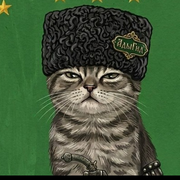
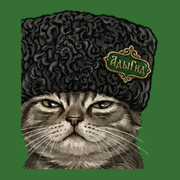
Знак сайта — кот в папахе, а не горы
Шапка, подвал, подбор, витрина и админка берут один и тот же кадр
из иллюстрации кота. Иконки вкладки собраны из этого кадра.
Слово «АдыГид» не менялось. Общая картинка ссылки уже была с котом.

diff --git a/site_app/static/podbor.js b/site_app/static/podbor.js
@@ -694,7 +694,7 @@
   }
   function stepChrome(pos, total, count) {
     const pct = Math.round(((pos + 1) / total) * 100);
-    return '<header class="a2-bar"><span class="a2-brand"><span class="a2-mark" aria-hidden="true">▲</span>АдыГид</span><span class="a2-count">' + esc(count || ((pos + 1) + " / " + total)) + '</span></header><div class="a2-prog" aria-hidden="true"><i style="width:' + pct + '%"></i></div>';
+    return '<header class="a2-bar"><span class="a2-brand"><img class="a2-mark" src="/assets/logo-cat.png" alt="" width="22" height="22">АдыГид</span><span class="a2-count">' + esc(count || ((pos + 1) + " / " + total)) + '</span></header><div class="a2-prog" aria-hidden="true"><i style="width:' + pct + '%"></i></div>';
   }
   function navHtml(atStart) {
     return '<nav class="a2-nav"><button type="button" class="a2-btn-ghost" data-act="back"' + (atStart ? " disabled" : "") + '>← Назад</button><button type="button" class="a2-skip" data-act="skip">Пропустить</button></nav>';
@@ -887,7 +887,7 @@
       ? '<div class="a2-params">' + QUESTIONS.map((q, i) => '<button type="button" class="a2-param" data-act="edit" data-i="' + i + '"><span class="a2-p-ic">' + tileIcon(q) + '</span><span class="a2-p-t"><small>' + esc((VISUAL[q.key] && VISUAL[q.key].tile) || q.copy) + "</small><b>" + esc(tileValue(q)) + '</b></span><span class="a2-p-ed" aria-hidden="true">✎</span></button>').join("") + "</div>"
       : "";
     const toggle = detailsOpen ? "Скрыть детали ▴" : "Изменить детали";
-    return '<section class="a2-fin"><div class="a2-hero"><img src="' + esc(pimg("hero")) + '" alt="" decoding="async" loading="lazy"><span class="a2-hero-shade"></span><header class="a2-bar a2-bar-light"><span class="a2-brand"><span class="a2-mark" aria-hidden="true">▲</span>АдыГид</span></header><div class="a2-fin-copy"><span class="a2-kick">Всё готово</span><h1>План по Адыгее<br>почти собран</h1><p>' + esc(flowSummary()) + '</p></div></div><div class="a2-sheet"><div class="a2-pv-head"><h2>Например, вас ждут:</h2><small>подберём ещё и разложим по дням</small></div><div class="a2-pv-row">' + cards + '</div><div class="a2-final-btns"><button type="button" class="a2-btn" data-act="confirm">Сформировать план →</button><button type="button" class="a2-btn-ghost' + (detailsOpen ? " is-on" : "") + '" data-act="details">' + toggle + "</button></div>" + tiles + "</div></section>";
+    return '<section class="a2-fin"><div class="a2-hero"><img src="' + esc(pimg("hero")) + '" alt="" decoding="async" loading="lazy"><span class="a2-hero-shade"></span><header class="a2-bar a2-bar-light"><span class="a2-brand"><img class="a2-mark" src="/assets/logo-cat.png" alt="" width="22" height="22">АдыГид</span></header><div class="a2-fin-copy"><span class="a2-kick">Всё готово</span><h1>План по Адыгее<br>почти собран</h1><p>' + esc(flowSummary()) + '</p></div></div><div class="a2-sheet"><div class="a2-pv-head"><h2>Например, вас ждут:</h2><small>подберём ещё и разложим по дням</small></div><div class="a2-pv-row">' + cards + '</div><div class="a2-final-btns"><button type="button" class="a2-btn" data-act="confirm">Сформировать план →</button><button type="button" class="a2-btn-ghost' + (detailsOpen ? " is-on" : "") + '" data-act="details">' + toggle + "</button></div>" + tiles + "</div></section>";
   }
   function wizard() {
     if (reviewOpen && !state.final) return renderPreview();

diff --git a/site_app/templates/base.html b/site_app/templates/base.html
@@ -12,11 +12,11 @@
 <link rel="canonical" href="{{ canonical_url }}">
 <meta name="robots" content="{% block robots %}index, follow{% endblock %}">
 
-<link rel="icon" href="/assets/favicon.ico" sizes="any">
-<link rel="icon" type="image/png" sizes="16x16" href="/assets/favicon-16x16.png">
-<link rel="icon" type="image/png" sizes="32x32" href="/assets/favicon-32x32.png">
-<link rel="icon" type="image/png" sizes="192x192" href="/assets/favicon-192x192.png">
-<link rel="apple-touch-icon" sizes="180x180" href="/assets/apple-touch-icon.png">
+<link rel="icon" href="/assets/favicon.ico?v={{ asset_version }}" sizes="any">
+<link rel="icon" type="image/png" sizes="16x16" href="/assets/favicon-16x16.png?v={{ asset_version }}">
+<link rel="icon" type="image/png" sizes="32x32" href="/assets/favicon-32x32.png?v={{ asset_version }}">
+<link rel="icon" type="image/png" sizes="192x192" href="/assets/favicon-192x192.png?v={{ asset_version }}">
+<link rel="apple-touch-icon" sizes="180x180" href="/assets/apple-touch-icon.png?v={{ asset_version }}">
 
 <meta property="og:type" content="{% block og_type %}website{% endblock %}">
 <meta property="og:site_name" content="АдыГид">
@@ -49,6 +49,15 @@
   "inLanguage": "ru-RU"
 } | tojson }}
 </script>
+<script type="application/ld+json">
+{{ {
+  "@context": "https://schema.org",
+  "@type": "Organization",
+  "name": "АдыГид",
+  "url": site_url,
+  "logo": site_url ~ "/assets/logo-cat.png"
+} | tojson }}
+</script>
 {% block extra_ld %}{% endblock %}
 
 {% if yandex_metrika_id %}
@@ -70,11 +79,7 @@
   <div class="wrap">
     <div class="capsule">
       <a class="brand" href="/" aria-label="АдыГид — на главную">
-        <svg class="brand-mark" width="26" height="26" viewBox="0 0 32 32" aria-hidden="true">
-          <polygon points="4,24 12,10 20,24" fill="#9BCBA4"/>
-          <polygon points="10,24 21,8 30,24" fill="#278C3E"/>
-          <circle cx="24" cy="9" r="2.6" fill="#D6A324"/>
-        </svg>
+        <img class="brand-mark" src="/assets/logo-cat.png?v={{ asset_version }}" alt="" width="32" height="32">
         <span class="brand-word">АдыГид</span>
       </a>
       <nav class="main-nav">
@@ -113,6 +118,10 @@
 
 <footer class="site-footer">
   <div class="wrap">
+    <a class="footer-brand brand" href="/" aria-label="АдыГид — на главную">
+      <img class="brand-mark" src="/assets/logo-cat.png?v={{ asset_version }}" alt="" width="28" height="28">
+      <span class="brand-word">АдыГид</span>
+    </a>
     <div class="footer-stats">
       На сайте собрано {{ places_label(footer_stats.places) }} и {{ routes_label(footer_stats.trails) }}
     </div>

diff --git a/site_app/static/site.css b/site_app/static/site.css
@@ -100,7 +100,7 @@ a:focus-visible, button:focus-visible, input:focus-visible, select:focus-visible
   box-shadow: 0 10px 30px -16px rgba(30, 110, 48, .35), 0 1px 2px rgba(20, 30, 15, .04);
 }
 .brand { display: flex; align-items: center; gap: 9px; text-decoration: none; flex: none; }
-.brand-mark { flex: none; }
+.brand-mark { flex: none; width: 32px; height: 32px; display: block; }
 .brand-word { font-family: var(--font-display); font-size: 18px; color: var(--text); white-space: nowrap; }
 nav.main-nav { display: flex; gap: 2px; flex: 1; justify-content: center; padding: 0 8px; }
 nav.main-nav a {
@@ -820,6 +820,8 @@ h1.article-title {
 /* ── Footer ────────────────────────────────────────*/
 .site-footer { border-top: 1px solid var(--border); margin-top: 60px; padding: 32px 0; }
 .site-footer .wrap { display: flex; justify-content: space-between; align-items: center; gap: 16px 28px; flex-wrap: wrap; }
+.footer-brand .brand-mark { width: 28px; height: 28px; }
+.footer-brand .brand-word { font-size: 16px; }
 .footer-stats { font-family: var(--font-mono); font-size: 13px; color: var(--text-muted); }
 .footer-stats b { color: var(--text); font-variant-numeric: tabular-nums; }
 /* Раньше был в верхнем меню — переехал сюда, когда шапка сжалась до пяти
@@ -859,6 +861,7 @@ h1.article-title {
   .wrap { padding: 0 16px; }
   .site-header { top: 10px; margin-bottom: 26px; }
   .capsule { padding: 6px 6px 6px 14px; gap: 4px; }
+  .brand-mark { width: 28px; height: 28px; }
   .brand-word { font-size: 16px; }
 }
 

diff --git a/static/admin.css b/static/admin.css
@@ -34,8 +34,10 @@ a { color: var(--accent); }
   background: var(--card); border-bottom: 1px solid var(--border);
   display: flex; align-items: center; gap: 24px; padding: 0 24px; height: 58px;
 }
-.brand { font-weight: 700; font-size: 16px; color: var(--accent); white-space: nowrap; }
-.brand span { display: block; font-size: 11px; color: var(--muted); font-weight: 400; }
+.brand { display: flex; align-items: center; gap: 8px; font-weight: 700; font-size: 16px; color: var(--accent); white-space: nowrap; }
+.brand img { width: 28px; height: 28px; display: block; flex: none; }
+.brand-name { line-height: 1.15; }
+.brand small { display: block; font-size: 11px; color: var(--muted); font-weight: 400; }
 .tabs { display: flex; gap: 4px; flex: 1; }
 .tab {
   padding: 8px 16px; border-radius: 8px; border: none; background: none;
@@ -665,7 +667,7 @@ a { color: var(--accent); }
   /* Шапка: вкладки уезжают в горизонтальный скролл вместо переполнения */
   .topbar { flex-wrap: wrap; height: auto; padding: 10px 14px; gap: 8px 14px; }
   .brand { font-size: 14px; }
-  .brand span { display: none; }
+  .brand small { display: none; }
   .tabs {
     order: 3; flex-basis: 100%; overflow-x: auto; -webkit-overflow-scrolling: touch;
     gap: 2px; padding-bottom: 2px; scrollbar-width: none;

diff --git a/site_app/static/vpechatleniya/v.css b/site_app/static/vpechatleniya/v.css
@@ -42,6 +42,7 @@ a:focus-visible, button:focus-visible, input:focus-visible { outline: 2px solid 
 .site-header { position: sticky; top: 0; z-index: 50; background: color-mix(in srgb, #fff 90%, transparent); backdrop-filter: blur(12px); border-bottom: 1px solid var(--border); }
 .header-row { display: flex; align-items: center; gap: 12px; padding: 12px 0; }
 .brand { display: flex; align-items: center; gap: 8px; border: 0; background: none; padding: 0; color: inherit; }
+.brand-mark { width: 32px; height: 32px; display: block; flex: none; }
 .brand-word { font-family: var(--font-display); font-size: 22px; }
 .v7-mark { font-size: 12px; font-weight: 700; color: var(--accent-dark); background: var(--accent-soft); border: 1px solid var(--border); border-radius: 999px; padding: 3px 9px; }
 

diff --git a/app/templates/bot_base.html b/app/templates/bot_base.html
@@ -12,7 +12,7 @@
 </head>
 <body>
 <header class="topbar">
-  <a class="brand" href="/admin">АдыГид<span>панель управления</span></a>
+  <a class="brand" href="/admin"><img src="/assets/logo-cat.png" alt="" width="28" height="28"><span class="brand-name">АдыГид<small>панель управления</small></span></a>
   <nav class="tabs">
     <a class="tab" href="/admin">Статьи и разделы</a>
     <a class="tab{% if section == 'inbox' %} active{% endif %}" href="/admin/inbox">Входящие</a>

diff --git a/static/admin.html b/static/admin.html
@@ -13,7 +13,7 @@
 <body>
 
 <header class="topbar">
-  <div class="brand">АдыГид<span>панель управления</span></div>
+  <div class="brand"><img src="/assets/logo-cat.png" alt="" width="28" height="28"><span class="brand-name">АдыГид<small>панель управления</small></span></div>
   <nav class="tabs">
     <button class="tab active" data-tab="articles">Статьи</button>
     <button class="tab" data-tab="routes">Маршруты</button>

diff --git a/site_app/static/vpechatleniya/v.js b/site_app/static/vpechatleniya/v.js
@@ -241,7 +241,7 @@
     );
   }
   function logo() {
-    return '<svg width="26" height="26" viewBox="0 0 32 32" aria-hidden="true"><polygon points="4,24 12,10 20,24" fill="#9BCBA4"/><polygon points="10,24 21,8 30,24" fill="#278C3E"/><circle cx="24" cy="9" r="2.6" fill="#D6A324"/></svg>';
+    return '<img class="brand-mark" src="/assets/logo-cat.png" alt="" width="32" height="32">';
   }
   var catalogY = 0, catalogFocusId = "", detailStack = [];
   function menuIcon(code) {

diff --git a/site_app/templates/scenario.html b/site_app/templates/scenario.html
@@ -19,7 +19,7 @@
   "dateModified": scenario.updated_iso,
   "inLanguage": "ru-RU",
   "author": {"@type": "Person", "name": "Данила"},
-  "publisher": {"@type": "Organization", "name": "АдыГид", "url": site_url}
+  "publisher": {"@type": "Organization", "name": "АдыГид", "url": site_url, "logo": site_url ~ "/assets/logo-cat.png"}
 }) }}
 {{ faqui.ld(scenario.faq_ld) }}
 {{ faqui.ld(scenario.breadcrumbs_ld) }}

diff --git a/site_app/templates/article_detail.html b/site_app/templates/article_detail.html
@@ -21,7 +21,7 @@
   "dateModified": article.modified_iso,
   "mainEntityOfPage": canonical_url,
   "author": {"@type": "Person", "name": "Данила"},
-  "publisher": {"@type": "Organization", "name": "АдыГид", "url": site_url}
+  "publisher": {"@type": "Organization", "name": "АдыГид", "url": site_url, "logo": site_url ~ "/assets/logo-cat.png"}
 } | tojson }}
 </script>
 {{ faqui.ld(article.faq_ld) }}

diff --git a/site_app/static/podbor.css b/site_app/static/podbor.css
@@ -224,7 +224,7 @@
   font-family: var(--font-display); font-size: 18px; font-weight: 400;
   display: flex; align-items: center; gap: 6px;
 }
-.podbor .a2-mark { color: var(--accent); font-size: 13px; }
+.podbor .a2-mark { width: 22px; height: 22px; display: block; flex: none; }
 .podbor .a2-count {
   font-family: var(--font-mono); font-size: 12px; color: var(--text-muted); letter-spacing: .06em;
 }

diff --git a/tests/test_brand_logo.py b/tests/test_brand_logo.py
@@ -1,0 +1,29 @@
+"""Шапка, подвал и Organization носят кота, а не горы."""
+import json
+import re
+
+import pytest
+from fastapi.testclient import TestClient
+
+from app.main import app
+
+
+@pytest.fixture(scope="module")
+def client():
+    with TestClient(app) as test_client:
+        yield test_client
+
+
+def _ld_blocks(html: str) -> list:
+    return [json.loads(b) for b in re.findall(r'<script type="application/ld\+json">\s*(.*?)\s*</script>', html, re.S)]
+
+
+def test_header_footer_and_organization_use_the_cat(client):
+    html = client.get("/").text
+    assert "/assets/logo-cat.png" in html
+    assert "9BCBA4" not in html
+    assert html.count("logo-cat.png") >= 3  # шапка, подвал и разметка
+    org = next(b for b in _ld_blocks(html) if b.get("@type") == "Organization")
+    assert org["name"] == "АдыГид"
+    assert org["logo"].endswith("/assets/logo-cat.png")
+    assert ">АдыГид</span>" in html
